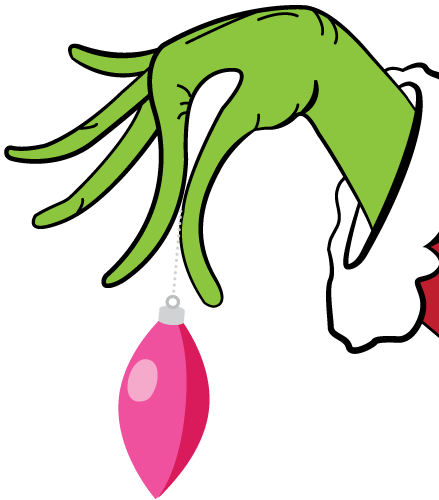
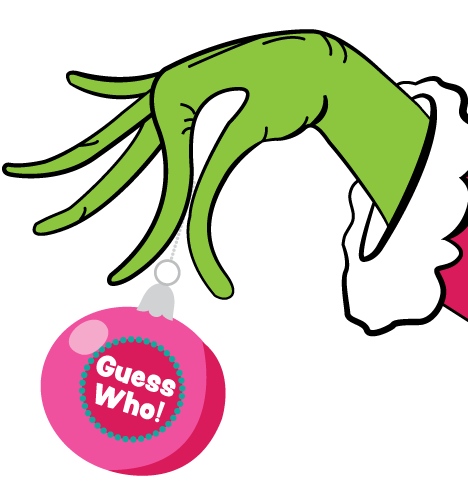
new design

diff --git a/index.html b/index.html
@@ -1,5 +1,6 @@
 <!DOCTYPE html>
-<html lang="en"><!-- InstanceBegin template="/Templates/page.dwt" codeOutsideHTMLIsLocked="false" -->
+<html lang="en">
+<!-- InstanceBegin template="/Templates/page.dwt" codeOutsideHTMLIsLocked="false" -->
 <head>
 <meta charset="utf-8">
 <meta http-equiv="X-UA-Compatible" content="IE=edge">
@@ -76,8 +77,7 @@ e.async=true;var t=document.getElementsByTagName("script")[0];t.parentNode.inser
 <!-- pinterest - do not remove -->
 <meta name="p:domain_verify" content="555e6e72efd395725f489e2ca0d49b94"/>
 <!-- pinterest - do not remove -->
-<script src="https://use.typekit.net/hxw5uje.js"></script>
-<script>try{Typekit.load({ async: false });}catch(e){}</script>
+<link href="https://fonts.googleapis.com/css?family=Hind|Ribeye" rel="stylesheet">
 <link rel="stylesheet" href="https://cdnjs.cloudflare.com/ajax/libs/flickity/2.0.5/flickity.min.css" integrity="sha256-RYxg7tiJnLgQq6MA97aPOy+QCt1360G5PsCmiXw87dA=" crossorigin="anonymous" />
 <script src="https://cdnjs.cloudflare.com/ajax/libs/flickity/2.0.5/flickity.pkgd.min.js" integrity="sha256-HAaPZfOf77+Qt1BGcxucDhuS/tJVxuZA+uX3tbcnSAk=" crossorigin="anonymous"></script>
 <style>
@@ -93,20 +93,35 @@ e.async=true;var t=document.getElementsByTagName("script")[0];t.parentNode.inser
 	display: block;
 	text-align: center;
 }
-	.btn-default {background-color: #d91b5c;}
-	.btn-default:hover, .btn-default:focus {background-color: #ef519e;}
+.btn-default {
+	background-color: #d91b5c;
+}
+.btn-default:hover, .btn-default:focus {
+	background-color: #ef519e;
+}
 .flickity-prev-next-button {
 	display: none;
 }
-h1.tk-peachy-keen-jf {
-	color: #fff;
-	font-size: 80px;
-	text-shadow: 6px 6px 0px rgba(0, 0, 0, 1);
+h1.storybook-heading {
+	font-family: 'Hind', sans-serif;
+	color: #fafae6;
+	font-size: 50px;
+}
+div.storybook-subheading {
+    font-family: 'Ribeye', sans-serif;
+    color: #fff;
+    font-size: 110px;
+    line-height: 100px;
+    padding-bottom: 15px;
+    letter-spacing: -3px;
+}
+.peach {
+	color: #fafae6
 }
 div.tk-peachy-keen-jf {
+	font-family: 'Ribeye', sans-serif;
 	color: #EF492F;
 	font-size: 40px;
-	text-shadow: 2px 2px 0px rgba(0, 0, 0, 1);
 }
 .grinch-background {
 	background: #1b75bc url(guess-who.png) no-repeat center left/cover;
@@ -284,11 +299,12 @@ height="0" width="0" style="display:none;visibility:hidden"></iframe>
     <div id="global-alert" class="container-md" style="display:none;"></div>
   </div>
   <!-- InstanceBeginEditable name="Content" -->
-  <div class="row no-gutter no-padding padding-top-60 padding-bottom-20 grinch-background">
-    <div class="col-sm-8 col-sm-push-2 padding-bottom-60 text-center"><img class="center-block img-responsive" src="storybook-holiday.png?420" alt="Storybook Holiday">
-      <h1 class="tk-peachy-keen-jf no-margin-top opacity-7">Guess Who!</h1>
-      <h4 class="white font-weight-400 padding-left-15 padding-right-15 roboto no-margin-top">Saturday, December 2, 2017, 6PM & 7:30PM</h4>
-      <div class="carousel white" data-flickity='{ "wrapAround": true, "adaptiveHeight": true, "pageDots": false, "selectedAttraction": 0.15, "friction": 0.35, "autoPlay": 3000 }'>
+  <div class="row bg-black no-gutter no-padding padding-top-60 padding-bottom-20">
+    <div class="col-sm-8 col-sm-push-2 padding-bottom-60 text-center">
+      <h1 class="storybook-heading text-uppercase no-margin">A Storybook Holiday</h1>
+      <div class="storybook-subheading no-margin text-uppercase">Party</div>
+      <h4 class="peach font-weight-400 padding-left-15 padding-right-15 roboto no-margin-top">Saturday, December 2, 2017, 6PM & 7:30PM</h4>
+      <div class="carousel" data-flickity='{ "wrapAround": true, "adaptiveHeight": true, "pageDots": false, "selectedAttraction": 0.15, "friction": 0.35, "autoPlay": 3000 }'>
         <div class="carousel-cell">
           <div style="color:#FEF200;" class="tk-peachy-keen-jf">A New Family Tradition</div>
         </div>
@@ -326,10 +342,10 @@ height="0" width="0" style="display:none;visibility:hidden"></iframe>
           <div style="color:#EF519E;" class="tk-peachy-keen-jf">Make & Take Gifts</div>
         </div>
       </div>
-      <h4 class="roboto white font-weight-400 padding-left-15 padding-right-15 margin-lg-200">Don't be a Grinch! Join the festivities at our inaugural holiday extravaganza, complete with a visit from Santa!</h4>
+      <h4 class="roboto peach font-weight-400 padding-left-15 padding-right-15 margin-lg-200">Don't be a Grinch! Join the festivities at our inaugural holiday extravaganza, complete with a visit from Santa!</h4>
       <div class="margin-top-15"><a class="btn btn-default btn-lg" href="https://www.eventbrite.com/e/a-storybook-holiday-guess-who-tickets-38499576269?aff=storybookholiday" target="_blank">Buy Now!</a></div>
     </div>
-    <div class="col-sm-3 col-sm-push-1 hidden-sm hidden-xs"><img src="grinch.png" class="pull-right img-responsive" alt="Guess Who!"></div>
+    <div class="col-sm-3 col-sm-push-1 hidden-sm hidden-xs"><img src="grinch.png?420" class="pull-right img-responsive" alt="Guess Who!"></div>
   </div>
   <div style="background-color: #7baa38;" class="row featured padding-top-30 padding-bottom-40">
     <div class="container">
@@ -440,6 +456,7 @@ height="0" width="0" style="display:none;visibility:hidden"></iframe>
 		"https:\/\/twitter.com\/DCLcolorado"]
   }
 </script> 
-<!-- End Structured Data --> 
+<!-- End Structured Data -->
 </body>
-<!-- InstanceEnd --></html>
+<!-- InstanceEnd -->
+</html>
